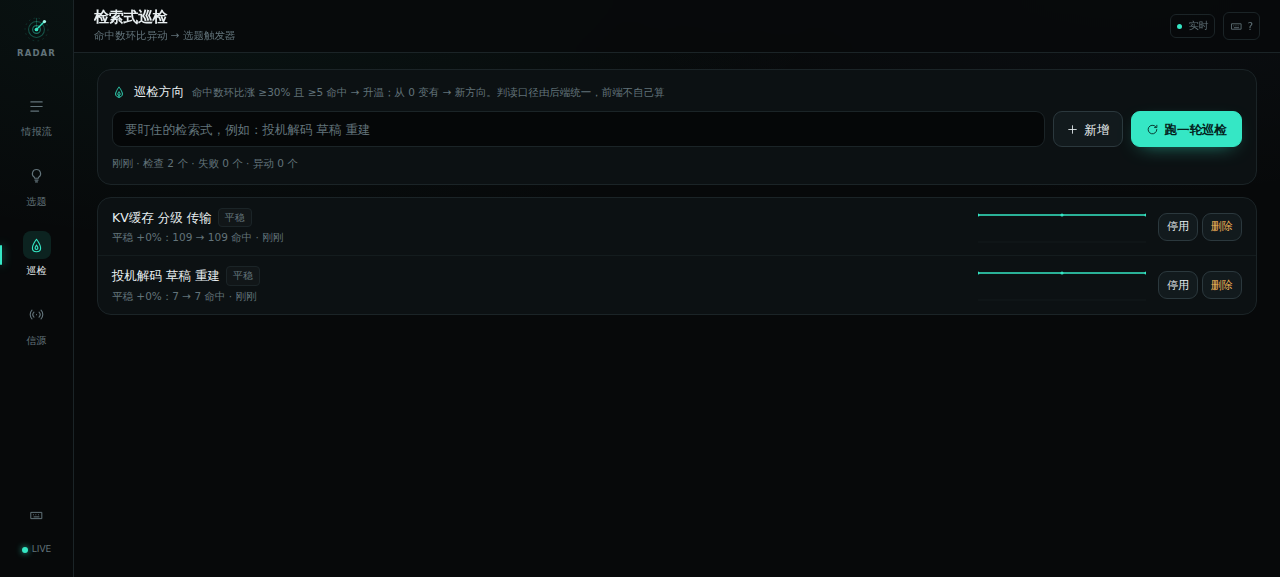
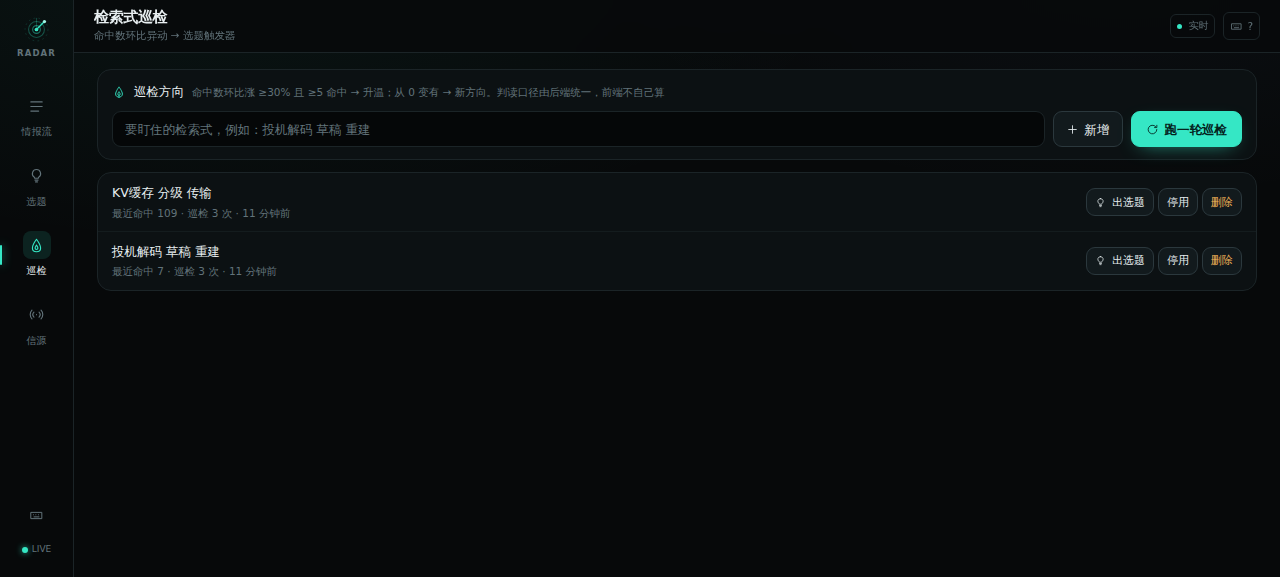
feat(watch): 巡检 → 选题闭环（一键出选题并跳到工作台选中）
- WatchPage 每行加「出选题」：把巡检检索式当 focus 调 /api/ideas/generate，超时 90s
- 生成后 navigate('#/ideas?idea=<id>')，IdeasPage 支持按路由参数直选该条
- LLM 未配置时按 code 给可操作文案（而不是生成失败）
- 真机验证：#/watch 点出选题 → 生成 1 条 → 跳到 #/ideas?idea=idea-mvtl8xnz-cedb07f1 并选中
- 全仓 200 条测试；docs/frontend.md 补闭环说明

Changed region(s): [[0.0625, 0.2496, 0.2188, 0.5303], [0.7812, 0.4367, 0.9688, 0.5303], [0.7812, 0.3432, 0.9688, 0.4055]]

diff --git a/web/src/pages/WatchPage.tsx b/web/src/pages/WatchPage.tsx
@@ -10,6 +10,7 @@ import { useCallback, useEffect, useState, type JSX } from 'react';
 import {
   addWatch,
   friendlyError,
+  generateIdeas,
   listWatches,
   removeWatch,
   runSweep,
@@ -18,6 +19,7 @@ import {
   type ApiError,
 } from '../lib/api';
 import { relTime } from '../lib/format';
+import type { RouteName } from '../lib/hooks';
 import type { SweepResult, TrendLevel, Watch, WatchTrend } from '../lib/types';
 import { Icon } from '../components/Icon';
 import { EmptyState, ErrorState } from '../components/States';
@@ -75,7 +77,13 @@ function Sparkline({ history }: { history: { at: string; hits: number | null }[]
   );
 }
 
-export function WatchPage({ liveNonce }: { liveNonce: number }): JSX.Element {
+export function WatchPage({
+  liveNonce,
+  navigate,
+}: {
+  liveNonce: number;
+  navigate: (n: RouteName, params?: Record<string, string>) => void;
+}): JSX.Element {
   const toast = useToastFns();
   const [watches, setWatches] = useState<Watch[]>([]);
   const [trends, setTrends] = useState<WatchTrend[]>([]);
@@ -85,6 +93,8 @@ export function WatchPage({ liveNonce }: { liveNonce: number }): JSX.Element {
   const [busy, setBusy] = useState(false);
   const [sweeping, setSweeping] = useState(false);
   const [lastSweep, setLastSweep] = useState<SweepResult | null>(null);
+  /** 正在为该巡检方向生成选题（记 query，避免整页按钮一起转圈） */
+  const [generatingFor, setGeneratingFor] = useState<string | null>(null);
 
   const load = useCallback(async () => {
     try {
@@ -143,6 +153,36 @@ export function WatchPage({ liveNonce }: { liveNonce: number }): JSX.Element {
       setSweeping(false);
     }
   }, [load, toast]);
+
+  /**
+   * 巡检 → 选题闭环：把巡检检索式直接当 focus 交给 LLM。
+   * 不在这里"顺手"改状态或存稿，生成完就跳到工作台让用户自己看/查新——
+   * 自动流转会让人分不清哪条是机器塞进来的。
+   */
+  const onGenerateFromWatch = useCallback(
+    async (watch: Watch) => {
+      setGeneratingFor(watch.id);
+      try {
+        const res = await generateIdeas({ focus: watch.query, count: 1 });
+        const first = res.ideas[0];
+        toast.ok(
+          `已按「${watch.query}」生成选题`,
+          first ? first.title.slice(0, 28) + '…' : '已写入工作台',
+        );
+        navigate('ideas', first ? { idea: first.id } : undefined);
+        void navigate;
+      } catch (err) {
+        const api = toApiError(err);
+        toast.error(
+          api.code === 'llm_not_configured' ? 'LLM 未配置' : '生成失败',
+          api.code === 'llm_not_configured' ? '填 TREND_RADAR_LLM_BASE_URL / MODEL 后可用；也可在工作台手工新建' : api.message,
+        );
+      } finally {
+        setGeneratingFor(null);
+      }
+    },
+    [navigate, toast],
+  );
 
   const trendOf = (id: string): WatchTrend | undefined => trends.find((t) => t.watch.id === id);
 
@@ -247,6 +287,16 @@ export function WatchPage({ liveNonce }: { liveNonce: number }): JSX.Element {
                   {trend && trend.history.length > 1 ? <Sparkline history={trend.history} /> : null}
 
                   <div className="flex items-center gap-1">
+                    <button
+                      type="button"
+                      className="btn h-7 px-2 text-[11px]"
+                      disabled={generatingFor !== null}
+                      onClick={() => void onGenerateFromWatch(watch)}
+                      title="以该检索式为 focus 生成一条选题（需要配置 LLM）"
+                    >
+                      {generatingFor === watch.id ? <Spinner size={11} /> : <Icon name="bulb" size={11} />}
+                      出选题
+                    </button>
                     <button
                       type="button"
                       className="btn h-7 px-2 text-[11px]"

diff --git a/web/src/pages/IdeasPage.tsx b/web/src/pages/IdeasPage.tsx
@@ -16,7 +16,7 @@ import {
   type ApiError,
 } from '../lib/api';
 import { STATUS_META, VERDICT_META, bandOf, relTime, summaryOf } from '../lib/format';
-import { useHotkeys, useMediaQuery, type RouteName } from '../lib/hooks';
+import { useHotkeys, useMediaQuery, type Route, type RouteName } from '../lib/hooks';
 import type { IdeaStatus, IdeaWithVerdict } from '../lib/types';
 import { IdeaDetail, type NoveltyInput } from '../components/IdeaDetail';
 import { Icon } from '../components/Icon';
@@ -29,10 +29,13 @@ import { Pill, Segmented, Spinner, StatusBadge } from '../components/primitives'
 const STATUS_ORDER: IdeaStatus[] = ['draft', 'verified', 'red-ocean', 'archived'];
 
 export function IdeasPage({
+  route,
   navigate,
   liveNonce,
   liveIdea,
 }: {
+  /** 当前路由：支持 /#/ideas?idea=<id> 直接选中某条（巡检页「出选题」跳过来时用） */
+  route: Route;
   navigate: (n: RouteName, params?: Record<string, string>) => void;
   liveNonce: number;
   /** SSE idea 帧：就地更新那一条，不整表重取 */
@@ -47,7 +50,7 @@ export function IdeasPage({
   const [ideas, setIdeas] = useState<IdeaWithVerdict[]>([]);
   const [loading, setLoading] = useState(true);
   const [error, setError] = useState<ApiError | null>(null);
-  const [selectedId, setSelectedId] = useState<string | null>(null);
+  const [selectedId, setSelectedId] = useState<string | null>(() => route.params.get('idea'));
   const [statusFilter, setStatusFilter] = useState<IdeaStatus | 'all'>('all');
   const [nonce, setNonce] = useState(0);
 

diff --git a/web/src/App.tsx b/web/src/App.tsx
@@ -89,9 +89,9 @@ export function App(): JSX.Element {
                 onHelp={() => setHelpOpen(true)}
               />
             ) : route.name === 'ideas' ? (
-              <IdeasPage navigate={go} liveNonce={live.nonce} liveIdea={live.idea} />
+              <IdeasPage route={route} navigate={go} liveNonce={live.nonce} liveIdea={live.idea} />
             ) : route.name === 'watch' ? (
-              <WatchPage liveNonce={live.nonce} />
+              <WatchPage liveNonce={live.nonce} navigate={go} />
             ) : (
               <SystemPage liveNonce={live.nonce} />
             )}

diff --git a/README.md b/README.md
@@ -64,7 +64,7 @@ Trend Radar 把这四步串成一条流水线，并且**每一步都留下可复
 按机械规则判读趋势：`升温`（≥30% 且命中 ≥5）/ `新方向冒头`（0 → 有）/ `降温` / `平稳` / `基线`。
 命中数异动的方向会自动进入 `alerts`，这才是选题触发器。
 
-Web 端有独立「巡检」页：命中数折线、档位徽标、异动列表、一键跑一轮；CLI 同样可用：
+Web 端有独立「巡检」页：命中数折线、档位徽标、一键跑一轮，每个方向还能直接**出选题**（把检索式当 focus 交给 LLM，生成后跳到工作台并选中）；CLI 同样可用：
 
 ```bash
 trend-radar watch add "投机解码 草稿 重建"   # 盯住一个方向
@@ -187,6 +187,7 @@ CI（GitHub Actions）跑：typecheck → test → build → 起服务 smoke tes
 ## Roadmap
 
 - [x] 检索式巡检（命中数环比异动 → 选题触发器，Web + CLI 双入口）
+- [x] 巡检 → 选题闭环（异动方向一键出选题，`/#/watch` → `/#/ideas?idea=<id>`）
 - [ ] 情报源做成运行时可视化配置（已支持增删启停，缺"探活预览"）
 - [ ] 选题相似度聚类（现在只做标题 Jaccard 去重）
 - [ ] 多语言检索式（英文检索式 + Google Patents 适配器）

diff --git a/docs/frontend.md b/docs/frontend.md
@@ -54,3 +54,11 @@ npm run build --workspace web && npm run typecheck --workspace web
 10. 手工登记查新后：列表徽标、状态、分布条同步更新；SSE `idea` 帧到达就地更新该条（不整表重载）。
 11. 信源页：启停开关乐观更新+失败回滚、权重滑块、备注保存、`最近错误` 条、运行记录展开错误、新增信源 422 提示。
 12. 响应式：≥1280 三列（列表+详情+筛选并排）；390 宽单列 + 底部 Tab，选题页先看列表再进详情（`‹ 列表` 返回）。
+
+
+## 巡检 → 选题闭环（2026-10 增补）
+
+- 路由：`#/watch`（巡检页）；从巡检页「出选题」跳到 `#/ideas?idea=<id>`，工作台按 query 参数**直选**该条。
+- `WatchPage` 只呈现后端 `ideas/trend.ts` 的判读结果（档位阈值不在前端复制一份）。
+- 折线图手写 SVG：命中数为 `null`（解析失败）画**空心方块**、0 命中是贴底实心点——两者语义不同，视觉上不能混。
+- 生成失败按 code 分流文案：`llm_not_configured` → "填 LLM_BASE_URL / LLM_MODEL 后可用；也可手工新建"，其余走通用错误。
